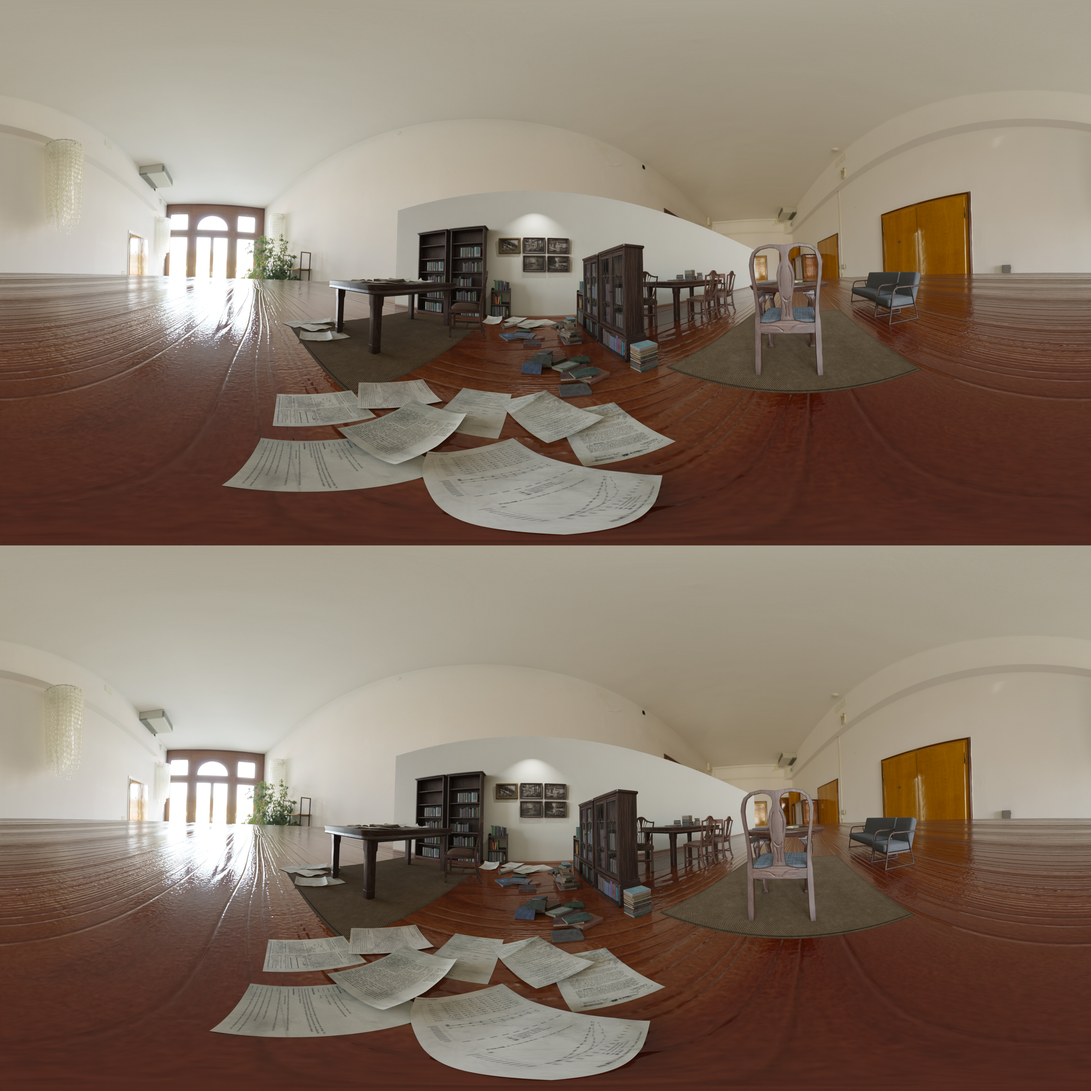
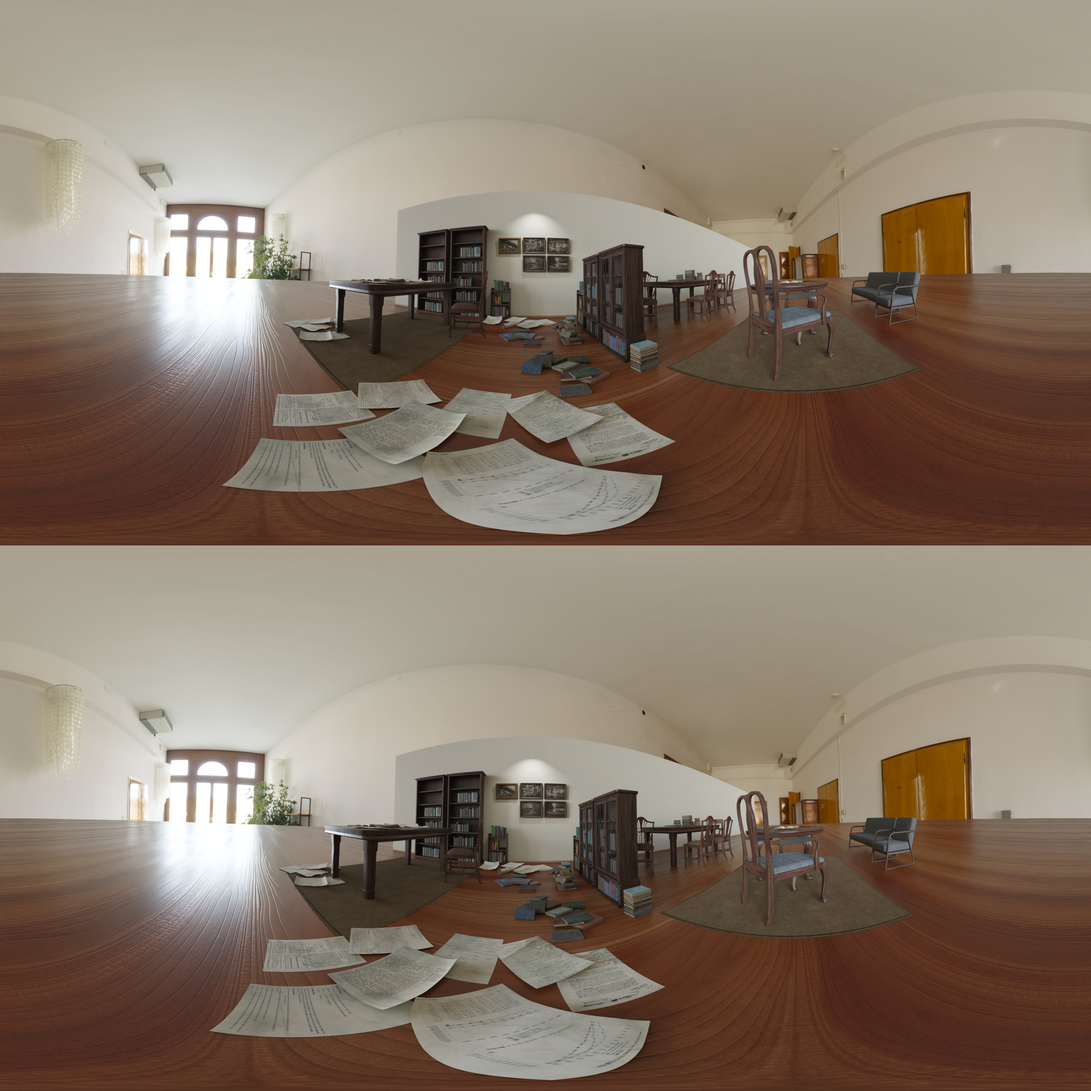
Panorama360のWeb表示のテスト

diff --git a/VR180/vr360.html b/VR180/vr360.html
@@ -79,6 +79,8 @@ div.v360 {
 		</table>
 
 		<div class=poxe data-src="./images/panorama360_unity2020_HDRP_4096x4096.jpg" data-mode="1"><img class=thumb src="./images/panorama360_unity2020_HDRP_4096x4096_thumb.jpg"></div><br>
+		<div class=poxe data-src="./images/panorama360_unity2020_HDRP_02_4096x4096.jpg" data-mode="1"><img class=thumb src="./images/panorama360_unity2020_HDRP_02_4096x4096_thumb.jpg"></div><br>
+
 		極力、地面や空の視差による距離感を保つようにしています。<br>
 		境界部分が荒くなる（矛盾）とのトレードオフですが、接地感はこのほうが出るかなと思います。<br>
 	</div>
